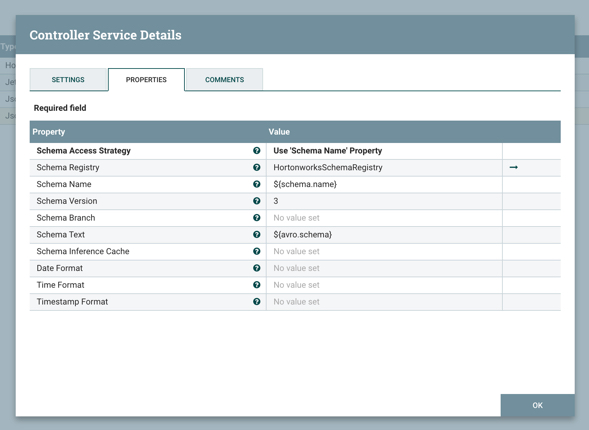
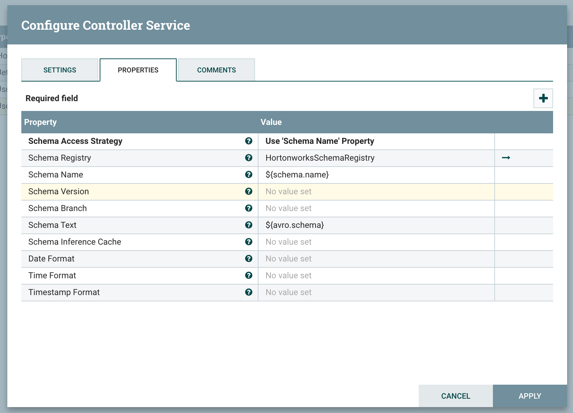
Added lab for SMM

Changed region(s): [[0.0, 0.0, 1.0, 1.0], [0.4154, 0.5811, 0.5637, 0.7264], [0.8307, 0.6392, 0.8901, 0.6973]]

diff --git a/README.md b/README.md
@@ -11,6 +11,8 @@ For the purpose of this lab, we would build an end-to-end use case that will:
 * *Ingest data sets from Meetup.com for a specific event through NiFi*
 * *Parse the dataset and extract key terms from the data set, derive a sentiment rating with StanFord CoreNLP engine*
 * *Configure NiFi with NiFi registry for Version Control*
+* Configure Schema Registry for maintaining a schema version that all services will use as reference
+* Configure Streaming Messaging Manager (SMM) to setup and manage Kafka Topics
 * *Setup Kafka Topics to ingest data from NiFi*
 * *Setup Kudu Tables to store the social data*
 * *Leverage Spark, Python to read the data from Kafka and store it in Kudu*
@@ -289,10 +291,12 @@ Let's get started... Open [NiFi UI](http://demo.cloudera.com:9090/nifi/) and fol
 		- comment: ```$.comment```
 	- The message coming out of the processor would look like this:
 
+	```
 	{"visibility":"public","member":{"member_id":11643711,"photo":"https:\/\/secure.meetupstatic.com\/photos\/member\/3\/1\/6\/8\/thumb_273072648.jpeg","member_name":"Loka Murphy"},"comment":"I didn’t when I registered but now thinking I want to try and get one since it’s only taking place once.","id":-259414201,"mtime":1541557753087,"event":{"event_name":"Tunnel to Viaduct 8k Run","event_id":"256109695"},"table_name":"event_comment","group":{"join_mode":"open","country":"us","city":"Seattle","name":"Seattle Green Lake Running Group","group_lon":-122.34,"id":1608555,"state":"WA","urlname":"Seattle-Greenlake-Running-Group","category":{"name":"fitness","id":9,"shortname":"fitness"},"group_photo":{"highres_link":"https:\/\/secure.meetupstatic.com\/photos\/event\/9\/e\/f\/4\/highres_465640692.jpeg","photo_link":"https:\/\/secure.meetupstatic.com\/photos\/event\/9\/e\/f\/4\/600_465640692.jpeg","photo_id":465640692,"thumb_link":"https:\/\/secure.meetupstatic.com\/photos\/event\/9\/e\/f\/4\/thumb_465640692.jpeg"},"group_lat":47.61},"in_reply_to":496130460,"status":"active"}
-	
-	- Link EvaluateJsonPath to UpdateAttribute processor 
+	```
 
+	- Link EvaluateJsonPath to UpdateAttribute processor 
+	
 - **Step 7: Add a AttributesToCSV processor to the canvas**
 	- Double click to open the processor. 
 	- On settings tab, select **failure** relationship
@@ -330,7 +334,7 @@ Let's get started... Open [NiFi UI](http://demo.cloudera.com:9090/nifi/) and fol
 	
 	![Link Processor](./images/cdf_flow1.jpg).
 	
-	- To review the actual files being written, ssh to your instance and navigate to the ```/tmp/workshop``` directory.
+	- **Optional**:  To review the actual files being written, ssh to your instance and navigate to the ```/tmp/workshop``` directory.
 	- You will see all the files being written here. You can select any one of them and issue a ```cat <filename>``` command to view the contents as well. 
 	
 	![Link Processor](./images/cdf_flow1_a.jpg).
@@ -368,13 +372,13 @@ Let's get started... Open [NiFi UI](http://demo.cloudera.com:9090/nifi/) and fol
   Evolve: 				 checked		   	
   ```
 
-  ![Schema Registry](/Users/rajat/OneDrive/OD Github/CDF-CDH-Workshop/images/schema_registry_a.jpg)
+  ![Schema Registry](./images/schema_registry_a.jpg)
 
 - Save the schema.
 
 - Now let's enable the processors in our Process Group to use schemas stored in Schema Registry. Right-click on the Process Group, select **Configure** and navigate to the **Contoller Services** tab. Click the + icon and add a **HortonworksSchemaRegistry** service.
 
-  ![](/Users/rajat/OneDrive/OD Github/CDF-CDH-Workshop/images/nifi_schema_registry_a.jpg)
+  ![](./images/nifi_schema_registry_a.jpg)
 
 - After the service is added, click the service's cog icon, and goto the **Properties** tab and configure it with the following **Schema Registry URL** and click **Apply**.
 
@@ -382,7 +386,7 @@ Let's get started... Open [NiFi UI](http://demo.cloudera.com:9090/nifi/) and fol
   URL: http://YOUR_PUBLIC_IP:7788/api/v1
   ```
 
-  ![](/Users/rajat/OneDrive/OD Github/CDF-CDH-Workshop/images/nifi_schema_registry_b.jpg)
+  ![](./images/nifi_schema_registry_b.jpg)
 
 - Click on the lighting bolt icon to **enable** the **HortonworksSchemaRegistry** Controller Service. 
 
@@ -396,46 +400,68 @@ Let's get started... Open [NiFi UI](http://demo.cloudera.com:9090/nifi/) and fol
   Schema Name: 						    ${schema.name} -> already set by default
   ```
 
-  ![JSONTreeReader](/Users/rajat/OneDrive/OD Github/CDF-CDH-Workshop/images/nifi_schema_registry_c.jpg)
+  ![JSONTreeReader](./images/nifi_schema_registry_c.jpg)
 
 - JsonRecordSetWriter, with the following properties:
 
   ```
-  Schema Write Strategy:  HWX Schema Reference Attributes
-  Schema Access Strategy: Inherit Record Schema
-  Schema Registry:        HortonworksSchemaRegistry
+  Schema Write Strategy:  		HWX Schema Reference Attributes
+  Schema Access Strategy: 		Inherit Record Schema
+  Schema Registry:        		HortonworksSchemaRegistry
   ```
 
-  ![](/Users/rajat/OneDrive/OD Github/CDF-CDH-Workshop/images/nifi_schema_registry_d.jpg)
+  ![](./images/nifi_schema_registry_d.jpg)
 
 - Enable the **JsonTreeReader** and the **JsonRecordSetWriter** Controller Services you just created, by clicking on their respective *lightning bolt* icons.
 
 - If you have setup all services, the Controller Services screen for the Process Group would look as follows:
 
-  ![](/Users/rajat/OneDrive/OD Github/CDF-CDH-Workshop/images/nifi_schema_registry_e.jpg)
+  ![](./images/nifi_schema_registry_e.jpg)
 
-## Configure and Explore Kafka
 
-- **Setup Kafka Topic**
+
+## Using Streams Messaging Manager (SMM) to create and manage Kafka Topics
+
+- **Accessing SMM**
 	
-	- SSH to your instance. 
-	- Normally, you would need to identify where kafka is installed and then execute a bunch of command line statements to create & list topics. There is a seperate utility for tracking what content is being written in Kafka. For this lab, we have parameterized these statements and provided them via scripts, making it easy to setup the lab.
-	- **Note While all scripts are parameterized, if you need a scirpt to find out your public/private ip of your instance or the kafka installation diretory, then you case use the 'set_env.sh' script for reference.**
+	- SMM Web UI is accessible at: http://YOUR_PUBLIC_IP:9991
 	
-	- List Kafka Topics by executing the following:
+	  ![](./images/smm_a.jpg)
 	
-		```$ ./list_kafka_topics.sh```
-		
-	- By default, your environment will not have any existing Kafka topics setup, hence no topics will be displayed. 
-	- Let's create a Kafka Topic ```meetup_comment_ws``` by executing the following:
+	- Familiarize yourself with the options there, esp the filters (green boxes) at the top of the screen.
 	
-		```$ ./create_kafka_topic.sh meetup_comment_ws```
-		
-	- Let's check if the topic has been created by executing:
+	- The first thing we need to is create a new topic, where we would be sending our data to. Click the third icon on the left in the toolbar (on hovering, it will read 'Topics')
 	
-		```$ ./list_kafka_topics.sh```
+	  ![](./images/smm_b.jpg)
 	
-	![Kafka Topic Setup](./images/cdf_kafka_a.jpg).
+	- This screen lists all the topics that SMM is tracking. Let's create a new topic. Click the 'Add New' button on the right top corner of the screen. 
+	
+	  ![](./images/smm_c.jpg)
+	
+	- In the pop-up screen that opens, select 'Low' option for Availability. Since we are running a singlenodecluster, we don't have replication setup for Kafka, hence we will choose this option. 
+	
+	- Configure the properties on the screen as follows:
+	
+	  ```
+	  Topic Name: 			meetup_comment_ws
+	  Partitions: 			1
+	  Availability:			Low 
+	  Limits:						delete (cleanup policy)
+	  ```
+	
+	  ![](./images/smm_d.jpg)
+	
+	- Click Save.
+	
+	- Currently we are not writing anything to our topic. Any active topics are highlighted as 'Active' on the 'Overview' page. 
+	
+	- We will revisit SMM once we finish the NiFi flow. 
+	
+	  
+	
+	- 
+	
+	- 
 	
 
 [Back to Index](#content)
@@ -506,28 +532,100 @@ Go back to [NiFi UI](http://demo.cloudera.com:9090/nifi/) and follow the steps b
 
 ![Link Processor](./images/cdf_attributestojson.jpg)
 
-- **Step 7: Push the data to Kafka with PublishKafka_2 _0 connector**
-  - Add PublishKafka_2 _0 to the canvas and link from AttributesToJSON on **success** relationship
-  - Double click on the processor
-  - On settings tab, check all relationships as this is a the last step.
-  - On properties tab
-  - Change **Kafka Brokers** value to ```yourlocalip:9092``` (make sure you select your local ip of the instance as kafka will be listening on that. If you are unsure of what is the local ip, you can execute the following:
+## Incorporating Schema Registry in the NiFi flow
+
+- **Defining Schema Name**
+
+  - We need to tell NiFi which schema should be used to read and right the Message data. For this, we'll use an UpdateAttribute processor to add an attribute to the FlowFile indicating the schema name. 
+
+  - Add an UpdateAttribute processor by dragging the processor icon to the canvas.
+
+  - Double-click the UpdateAttribute processor and configure the settings tab as follows:
+
+    ```
+    Name: 		Set Schema Name
+    ```
+
+  - In the Properties tab, click the + button and add the following properties:
+
+    ```
+    Property Name:		schema.name
+    Property Value: 	SentimentAnalysis
+    ```
+
+    ![](./images/nifi_schema_registry_f.jpg)
+
+  - Click **Apply**.
+
+  - Connect the AttributesToJSON processor to UpdateAttribute Processor on success.
+
+- **Push the data to Kafka**
   
-  		```$ ./show_env.sh```
+  - Add PublishKafkaRecord_2 _0 to the canvas and link from previous UpdateAttribute on **success** relationship. Double click on the processor.
   
-  - Change **Topic Name** value to ```meetup_comment_ws```
-  - Change **Use Transactions** value to **false**
-  - Apply changes.
-
-![Link Processor](./images/cdf_publish_kafka.jpg)
-
-  - CDF Flow is now ready and should look like the following:
-
-![Link Processor](./images/cdf_last_step.jpg)
+  - On the settings tab, select both failure and success for Automatically Terminate Relationships.
+  
+  - On the properties tab, we need to configure the following:
+  
+     ```
+     Kafka Brokers:                         			kafka_broker_ip:9092
+     Topic Name:                            			meetup_comment_ws
+     Record Reader:                         			JsonTreeReader
+     Record Writer:                         			JsonRecordSetWriter
+     Use Transactions:                      			false
+     Attributes to Send as Headers (Regex): 			schema.*
+     ```
+  
+  - Make sure you use the PublishKafkaRecord_2.0 processor and **not** the PublishKafka_2.0.
+  
+  		![](./images/nifi_kafka_a.jpg)
+  
+  - While still in the *PROPERTIES* tab of the *PublishKafkaRecord_2.0* processor, click on the (+) button and add the following property:
+  
+     ```
+     Property Name:  client.id
+     Property Value: nifi-meetup-data
+     ```
+  
+  - The above property will help us clearly identify who is producing data into the Kafka topic.
+  
+  - Click **Apply**.
+  
+  - Your canvas should look as follows:
+  
+  		![](./images/cdf_flow_2.jpg)
 
 [Back to Index](#content)
 
 --
+
+## Using SMM to track messages in Kafka
+
+- Let's start our NiFi Process Group, by click the play button on the Process Group. For tracking, you can also choose to start each processor one-by-one. This will provide clarity into how the flow file changes throughout the NiFi flow. 
+
+- Once the NiFi flow is started, you will see that messages will start to flow into Kafka. 
+
+  ![](./images/nifi_kafka_flow_full.jpg)
+
+- Click on the **Producers** filter and select only the **`nifi-sentiment-data`** producer. 
+
+- If you filter by **Topic** instead and select the `meetup_comment_ws` topic, you’ll be able to see all the **producers** and **consumers** that are writing to and reading from it, respectively. Since we haven’t implemented any consumers yet, the consumer list should be empty.
+
+  ![](./images/smm_e.jpg)
+
+- Click on the topic to explore its details. You can see more details, metrics and the break down per partition. Click on one of the partitions and you’ll see additional information and which producers and consumers interact with that partition.
+
+  ![](./images/smm_f.jpg)
+
+- Click on the **EXPLORE** link to visualize the data in a particular partition. Confirm that there’s data in the Kafka topic and it looks like the JSON produced by NiFi.
+
+  ![](./images/smm_g.jpg)
+
+- Every message has a 'show more'. Clicking that shows the full message coming in. You would notice that the schema is being picked up from Schema Registry. 
+
+  ![](./images/smm_h.jpg)
+
+- Once you see that messages are starting to flow into Kafka, you can stop your CDF flow. We will start it again later once we have setup a table in Kudu and Impala. 
 
 ## Configure Kudu and Impala
 
@@ -545,19 +643,21 @@ We will now setup a Kudu table with the same schema that we are using in Step 6 
 
 - Execute the following query in the Impala query console
 
-		CREATE TABLE meetup_comment_sentiment
-		(
-		dateandtime string,
-		country string,
-		event string,
-		member string,
-		sentiment string,
-		msgcomment string,
-		 PRIMARY KEY (dateandtime)
-		)
-		PARTITION BY HASH PARTITIONS 10
-		STORED AS KUDU
-		TBLPROPERTIES ('kudu.num_tablet_replicas' = '1');
+   ```
+   CREATE TABLE meetup_comment_sentiment
+   	(
+   	dateandtime string,
+   	country string,
+   	event string,
+   	member string,
+   	sentiment string,
+   	msgcomment string,
+   	 PRIMARY KEY (dateandtime)
+   	)
+   	PARTITION BY HASH PARTITIONS 10
+   	STORED AS KUDU
+   	TBLPROPERTIES ('kudu.num_tablet_replicas' = '1');
+   ```
 
 - Click the blue 'Play' button on the left. You will get a confirmation that the table has been created. 
 
@@ -566,28 +666,6 @@ We will now setup a Kudu table with the same schema that we are using in Step 6 
 [Back to Index](#content)
 
 --
-## Publish Data to Kafka
-
-- Before we start pushing the data into Kafka, let's start the Kafka Consumer to see what is coming through CDF (live).
-- To start Kafka Consumer, execute the following script in terminal:
-
-		$./kafka_console.sh meetup_comment_ws
-
-- Kafka will start and your screen will show something similar to below:
-
-![Link Processor](./images/start_kafka.jpg)
-
-- Let's start our CDF flow by clicking the Play button on the CDF Workshop group. 
-
-- You will see the Nifi Flow working. You will see the messages going in and you will be able to see it change if you right click and refresh. 
-
-![Link Processor](./images/cdf_full_flow.jpg)
-
-- And messaged would start showing up in the Kafka Console Window:
-
-![Link Processor](./images/kafka_consumer.jpg)
-
-- You can either keep both Kafka and CDF Flow running till you have 50-100 messages and then stop the CDF Flow by click the 'Stop' button on the 'CDF Workshop' Processor Group.
 
 [Back to Index](#content)
 
